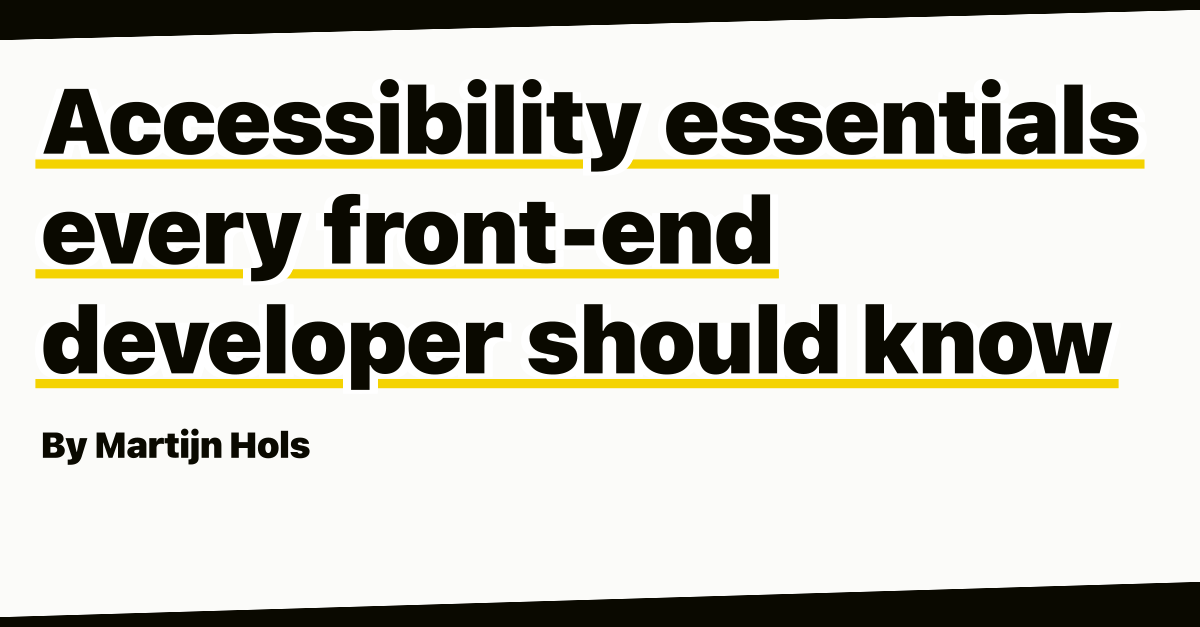
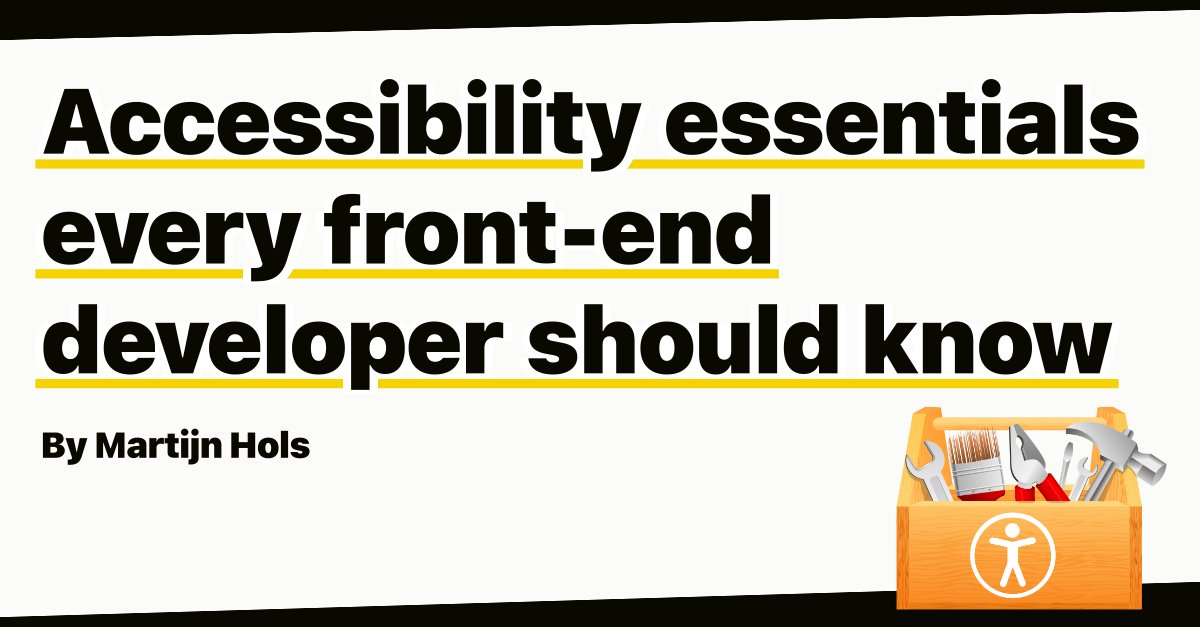
Add images to article list
I'll make images for the important other articles some other time

Changed region(s): [[0.74, 0.6364, 0.9867, 1.0]]

diff --git a/components/BlogArticleCard.tsx b/components/BlogArticleCard.tsx
@@ -1,5 +1,6 @@
 import { css } from '@emotion/react'
 import styled from '@emotion/styled'
+import Image from 'next/image'
 import { BlogArticleTag, SerializableBlogArticleMeta } from './BlogArticleMeta'
 import Link from './Link'
 import Panel from './Panel'
@@ -26,8 +27,8 @@ const ArticleTitle = styled.h2(
     transform: none;
     // Add some extra space on top so the hover state background's top isn't too
     // close to the text.
-    padding-top: ${theme.spacing.x1}px;
-    margin-top: -${theme.spacing.x1}px;
+    padding-top: 0.1em;
+    margin-top: -0.5em;
     margin-bottom: 0;
     hyphens: auto;
     font-size: 2em;
@@ -80,6 +81,14 @@ const Article = styled(Panel, {
     margin-left: -${theme.spacing.x4}px;
     margin-right: -${theme.spacing.x4}px;
     padding: ${theme.spacing.x3}px ${theme.spacing.x4}px ${theme.spacing.x2}px;
+    display: flex;
+    gap: 1em;
+    flex-flow: column;
+
+    @media (min-width: ${theme.breakpoints.TABLET}px) {
+      flex-direction: row;
+      gap: 2em;
+    }
   `,
   howTo &&
     css`
@@ -96,6 +105,9 @@ const Article = styled(Panel, {
       }
     `,
 ])
+const ArticleTextContainer = styled.div`
+  flex: 1 1 auto;
+`
 const ArticleMetadata = styled.div(
   ({ theme }) => css`
     display: flex;
@@ -131,19 +143,22 @@ const BlogArticleCard = ({ article }: Props) => (
       boxShadow={false}
       howTo={article.tags.includes(BlogArticleTag.HowTo)}
     >
-      <ArticleTitle>{article.title}</ArticleTitle>
-      <p>{article.description}</p>
-      <ArticleMetadata>
-        <Tags>
-          {article.tags.map((tag) => (
-            <Tag key={tag}>{tag}</Tag>
-          ))}
-        </Tags>
-        <PublishedAt>
-          {article.republishedAt ? 'Republished' : 'Published'}{' '}
-          <RelativeDate date={article.republishedAt ?? article.publishedAt} />
-        </PublishedAt>
-      </ArticleMetadata>
+      {article.image && <Image src={article.image} width={200} alt="" />}
+      <ArticleTextContainer>
+        <ArticleTitle>{article.title}</ArticleTitle>
+        <p>{article.description}</p>
+        <ArticleMetadata>
+          <Tags>
+            {article.tags.map((tag) => (
+              <Tag key={tag}>{tag}</Tag>
+            ))}
+          </Tags>
+          <PublishedAt>
+            {article.republishedAt ? 'Republished' : 'Published'}{' '}
+            <RelativeDate date={article.republishedAt ?? article.publishedAt} />
+          </PublishedAt>
+        </ArticleMetadata>
+      </ArticleTextContainer>
     </Article>
   </ArticleLink>
 )

diff --git a/pages/blog/accessibility-essentials-every-front-end-developer-should-know.tsx b/pages/blog/accessibility-essentials-every-front-end-developer-should-know.tsx
@@ -14,6 +14,7 @@ import closeButtonClickableAreaImage from './assets/accessibility-closebuttoncli
 import focusIndicatorImage from './assets/accessibility-focus-indicator.gif'
 import formFieldJumpingImage from './assets/accessibility-form-field-jumping.gif'
 import placeholdersImage from './assets/accessibility-placeholders.png'
+import accessibilityToolkitImage from './assets/accessibility-toolkit.png'
 import openGraphImage from './assets/ogimage-accessibility-essentials-every-front-end-developer-should-know.png'
 
 const { meta, getStaticProps } = articleMeta({
@@ -21,7 +22,8 @@ const { meta, getStaticProps } = articleMeta({
   title: 'Accessibility essentials every front-end developer should know',
   description:
     'Essential accessibility practices for front-end developers, including semantic HTML, alt texts, ARIA, and keyboard navigation tips to build inclusive components.',
-  image: openGraphImage,
+  openGraphImage: openGraphImage,
+  image: accessibilityToolkitImage,
   publishedAt: '2025-01-07',
   updatedAt: '2025-01-11',
   tags: [BlogArticleTag.Accessibility, BlogArticleTag.React, BlogArticleTag.UX],

diff --git a/pages/blog/the-european-accessibility-act-for-websites-and-apps.tsx b/pages/blog/the-european-accessibility-act-for-websites-and-apps.tsx
@@ -17,7 +17,8 @@ const { meta, getStaticProps } = articleMeta({
   title: 'The European Accessibility Act for websites and apps',
   description:
     'Learn how the European Accessibility Act (EAA) impacts websites and apps, key accessibility requirements, deadlines, and tips to prepare for compliance.',
-  image: openGraphImage,
+  openGraphImage: openGraphImage,
+  image: euAccessibilityImage,
   publishedAt: '2025-01-30',
   tags: [BlogArticleTag.Accessibility, BlogArticleTag.UX],
 })

diff --git a/components/BlogArticle.tsx b/components/BlogArticle.tsx
@@ -121,7 +121,7 @@ const BlogArticle = ({
   const {
     title,
     description,
-    image,
+    openGraphImage,
     publishedAt,
     republishedAt,
     republishedReason,
@@ -160,7 +160,7 @@ const BlogArticle = ({
       <BaseHead
         title={`${title} by ${process.env.NEXT_PUBLIC_SITE_NAME_FALLBACK}`}
         description={description}
-        image={image}
+        image={openGraphImage}
         absoluteUrl={absoluteUrl(pathname)}
         type="article"
       />

diff --git a/pages/blog/everything-about-google-translate-crashing-react.tsx b/pages/blog/everything-about-google-translate-crashing-react.tsx
@@ -36,7 +36,7 @@ const { meta, getStaticProps } = articleMeta({
     'Everything about Google Translate crashing React (and other web apps)',
   description:
     'A deep dive into Google Translate (and other browser extensions) interference breaking React and other web apps.',
-  image: openGraphImage,
+  openGraphImage: openGraphImage,
   publishedAt: '2024-05-29',
   tags: [
     BlogArticleTag.React,

diff --git a/pages/blog/the-security-risks-of-front-end-dependencies.tsx b/pages/blog/the-security-risks-of-front-end-dependencies.tsx
@@ -20,7 +20,7 @@ const { meta, getStaticProps } = articleMeta({
   title: 'The security risks of front-end dependencies',
   description:
     'A dive into the security risks of using third-party dependencies in front-end projects.',
-  image: openGraphImage,
+  openGraphImage: openGraphImage,
   publishedAt: '2024-04-15',
   republishedAt: '2024-12-14',
   republishedReason:

diff --git a/pages/blog/keeping-dependencies-up-to-date.tsx b/pages/blog/keeping-dependencies-up-to-date.tsx
@@ -17,7 +17,7 @@ const { meta, getStaticProps } = articleMeta({
   title: 'Keeping dependencies up-to-date',
   description:
     'A strategy for keeping dependencies up-to-date. When to update, how to update, and what to update first.',
-  image: openGraphImage,
+  openGraphImage: openGraphImage,
   publishedAt: '2024-04-28',
   tags: [
     BlogArticleTag.Dependencies,

diff --git a/pages/blog/you-dont-need-lodash.tsx b/pages/blog/you-dont-need-lodash.tsx
@@ -15,7 +15,7 @@ const { meta, getStaticProps } = articleMeta({
   title: "You don't need Lodash",
   description:
     "And I reckon you shouldn't use it, or any libraries that you can solve natively just as well. Here's why.",
-  image: openGraphImage,
+  openGraphImage: openGraphImage,
   publishedAt: '2024-11-28',
   updatedAt: '2024-12-03',
   tags: [

diff --git a/components/BlogArticleMeta.ts b/components/BlogArticleMeta.ts
@@ -50,6 +50,7 @@ export default interface BlogArticleMeta {
   slug: string
   title: string
   description: string
+  openGraphImage?: StaticImageData
   image?: StaticImageData
   publishedAt?: PublicationDate
   republishedAt?: PublicationDate
